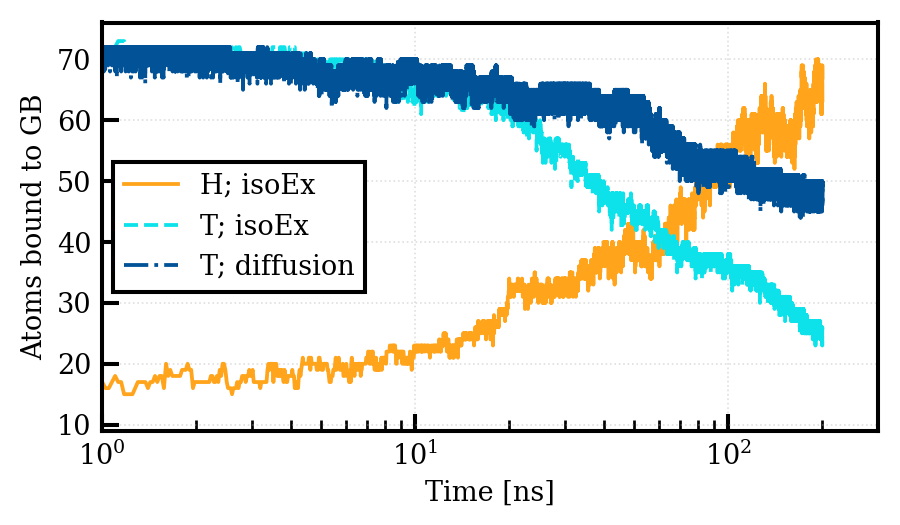
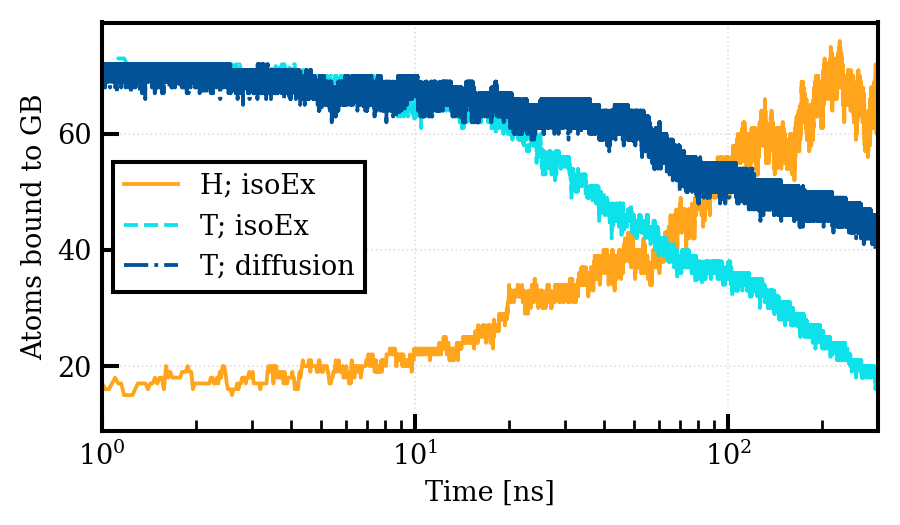
update GB plots

diff --git a/plotting-scripts/plot_GB_isoEx_comp.py b/plotting-scripts/plot_GB_isoEx_comp.py
@@ -19,8 +19,8 @@ def readData(fname, columnsToRead):
     return np.array(data)
 
 # HinVac.out format: Timestep NTinVac NHinVac NTinCell
-tTH_isoEx_500K = readData(path+'yGB_3000W_100H_73T_500K_200ns/HinGB.out', [0,1,2])
-tT_diff_500K = readData(path+'yGB_3000W_0H_73T_500K_200ns/HinGB.out', [0,1])
+tTH_isoEx_500K = readData(path+'yGB_3000W_100H_73T_500K_300ns/HinGB.out', [0,1,2])
+tT_diff_500K = readData(path+'yGB_3000W_0H_73T_500K_300ns/HinGB.out', [0,1])
 
 # Convert timesteps --> time in ns
 cf = 1e-6
